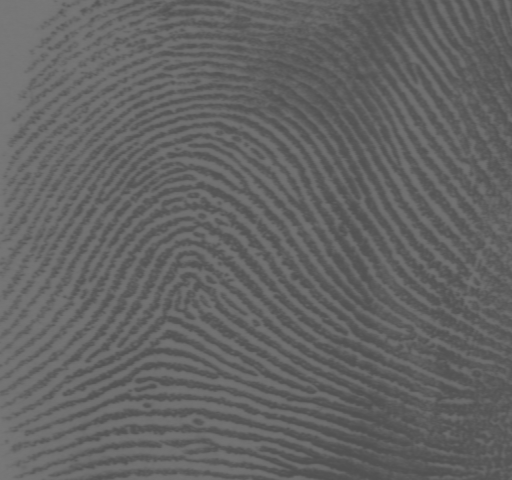
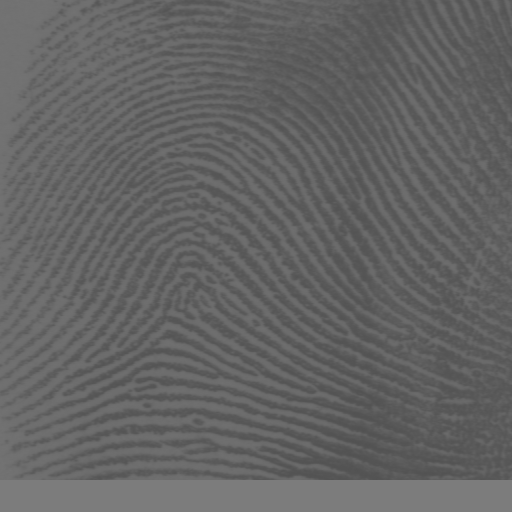
no crop for us

diff --git a/FingerprintAnalysisTemplate.py b/FingerprintAnalysisTemplate.py
@@ -113,7 +113,6 @@ if __name__ == '__main__':
     img_name = "M89_f0115_03.png"
     img_path = f'{path}/{img_name}'
     image = cv2.imread(img_path, 0)
-    image = image[:-32, :]
 
     cv2.imshow(img_name, image)
     cv2.waitKey()

diff --git a/main_chains.py b/main_chains.py
@@ -79,7 +79,6 @@ path = os.getcwd() + '/all_png_files'
 img_name = "M89_f0115_03.png"
 img_path = f'{path}/{img_name}'
 image = cv2.imread(img_path, 0)
-image = image[:-32, :]
 cv2.imshow(img_name, image)
 cv2.waitKey()
 
